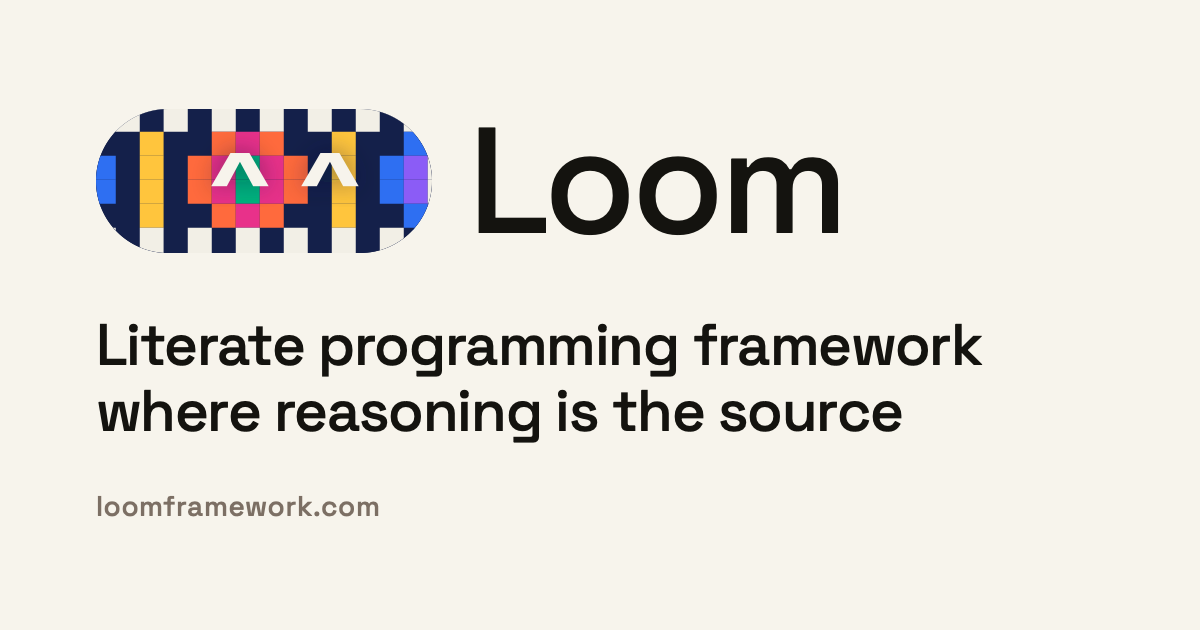
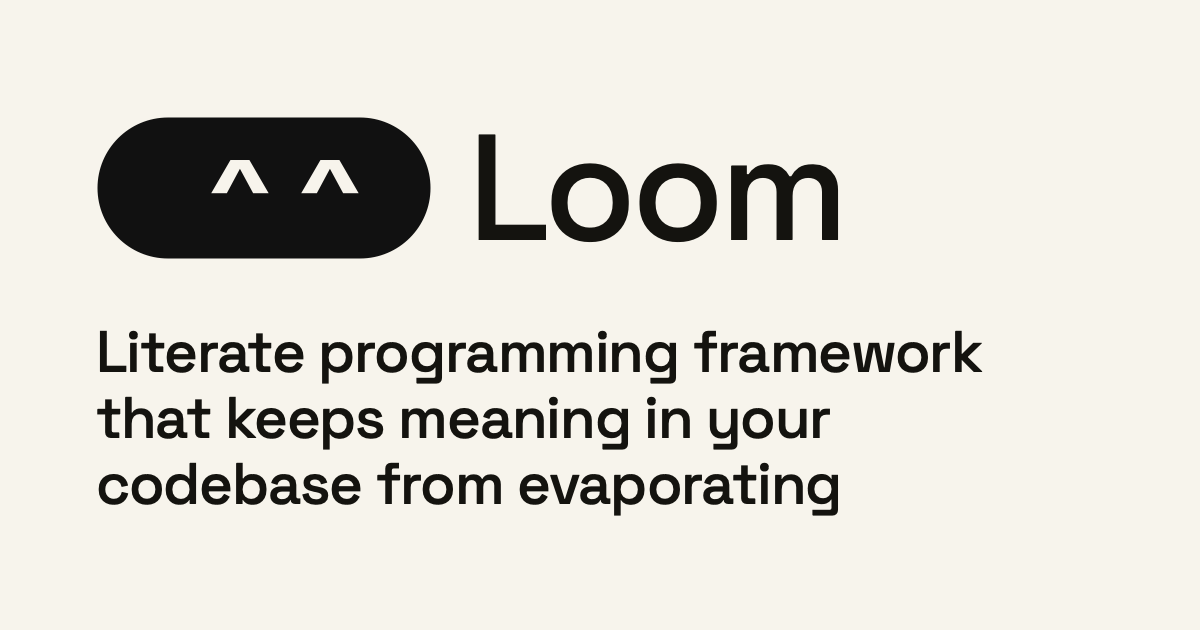
Say what Loom keeps: meaning in your codebase
The hero now says what Loom is and what it is for in one sentence,
"Literate programming framework that keeps meaning in your codebase
from evaporating", and its lead says how: "Write your program the way
you write a book, with the reasoning in prose and the code — as one
source." The tab title and the footer carry the short "literate
programming framework", the footer without a full stop.

The link preview shows the mark at rest, the black pill with its eyes
open, beside the wordmark and above the heading, without the address
the card already names. Its tags carry the new heading and lead.

The footer's last lines name the foundation, Tallinn, Estonia with its
flag, and the registration number, one to a line.

The README opens on the mark and wordmark in place of the ASCII
banner, in a light and a dark picture GitHub picks by theme, above the
new heading and lead.

diff --git a/site/index.html b/site/index.html
@@ -6,16 +6,16 @@
     <title>loom — programs written to be read</title>
     <link rel="icon" type="image/svg+xml" href="/languages/loom.svg" />
     <link rel="apple-touch-icon" href="/apple-touch-icon.png" />
-    <meta name="description" content="Write your program the way you write a book. Set down the reasoning in prose and the code beside it, as your thoughts flow." />
+    <meta name="description" content="Literate programming framework that keeps meaning in your codebase from evaporating. Write your program the way you write a book, with the reasoning in prose and the code — as one source." />
     <meta property="og:type" content="website" />
     <meta property="og:site_name" content="Loom" />
-    <meta property="og:title" content="Loom — literate programming where reasoning is the source" />
-    <meta property="og:description" content="Write your program the way you write a book. Set down the reasoning in prose and the code beside it, as your thoughts flow." />
+    <meta property="og:title" content="Loom — literate programming framework" />
+    <meta property="og:description" content="Literate programming framework that keeps meaning in your codebase from evaporating. Write your program the way you write a book, with the reasoning in prose and the code — as one source." />
     <meta property="og:url" content="https://loomframework.com/" />
     <meta property="og:image" content="https://loomframework.com/og.png" />
     <meta property="og:image:width" content="1200" />
     <meta property="og:image:height" content="630" />
-    <meta property="og:image:alt" content="The Loom mark and wordmark above the slogan: Literate programming framework where reasoning is the source." />
+    <meta property="og:image:alt" content="The Loom mark and wordmark above the line: Literate programming framework that keeps meaning in your codebase from evaporating." />
     <meta name="twitter:card" content="summary_large_image" />
     <link rel="preconnect" href="https://fonts.googleapis.com" />
     <link rel="preconnect" href="https://fonts.gstatic.com" crossorigin />

diff --git a/site/src/chrome.ts b/site/src/chrome.ts
@@ -577,7 +577,7 @@ export const footer = (h: HtmlBuilder<Message>): Html =>
                   ),
                   h.div(
                     [h.Class('footer-blurb')],
-                    ['Literate programming framework where reasoning is the source.'],
+                    ['Literate programming framework'],
                   ),
                 ],
               ),
@@ -599,7 +599,14 @@ export const footer = (h: HtmlBuilder<Message>): Html =>
               ),
             ],
           ),
-          h.div([h.Class('footer-bottom')], [h.span([], ['© Quadrivium Academy Sihtasutus 2026'])]),
+          h.div(
+            [h.Class('footer-bottom')],
+            [
+              h.span([], ['© Quadrivium Academy Sihtasutus 2026']),
+              h.span([], ['Tallinn, Estonia 🇪🇪']),
+              h.span([], ['Registration number: 90015241']),
+            ],
+          ),
         ],
       ),
     ],

diff --git a/site/src/hero.ts b/site/src/hero.ts
@@ -10,11 +10,11 @@ const claim = (h: HtmlBuilder<Message>): Html =>
   h.div(
     [h.Class('hero-claim')],
     [
-      h.h1([], ['Literate programming framework where reasoning is the source']),
+      h.h1([], ['Literate programming framework that keeps meaning in your codebase from evaporating']),
       h.p(
         [h.Class('hero-lead')],
         [
-          'Write your program the way you write a book. Set down the reasoning in prose and the code beside it, as your thoughts flow.',
+          'Write your program the way you write a book, with the reasoning in prose and the code — as one source.',
         ],
       ),
     ],

diff --git a/site/test/Page.test.ts b/site/test/Page.test.ts
@@ -35,7 +35,8 @@ describe('the page', () => {
 
   it('puts the hero and its install line on the landing', () => {
     const html = render(at('home'))
-    expect(html).toContain('Literate programming framework where reasoning is the source')
+    expect(html).toContain('Literate programming framework that keeps meaning in your codebase from evaporating</h1>')
+    expect(html).toContain('and the code — as one source')
     expect(html).toContain('bun add -g @athrio/loom')
     expect(html).toContain('class="hero-word">Loom<')
   })

diff --git a/site/src/view.ts b/site/src/view.ts
@@ -51,7 +51,7 @@ const pageFor = (model: Model, h: HtmlBuilder<Message>): Html =>
 
 const titleOf = (route: Route): string =>
   Match.value(route).pipe(
-    Match.when('home', () => 'Loom — literate programming where reasoning is the source'),
+    Match.when('home', () => 'Loom — literate programming framework'),
     Match.when('docs', () => 'Docs — Loom'),
     Match.when('why-loom', () => 'Why Loom'),
     Match.when('community', () => 'Community — Loom'),

diff --git a/site/src/landing.css b/site/src/landing.css
@@ -2041,10 +2041,10 @@ h2, .subhead {
 
 .footer-bottom {
   display: flex;
-  flex-wrap: wrap;
-  align-items: center;
+  flex-direction: column;
+  align-items: flex-start;
   width: fit-content;
-  gap: var(--stack);
+  gap: 6px;
   font-size: var(--t-code);
   letter-spacing: 0.14em;
   color: var(--footer-muted);

diff --git a/README.md b/README.md
@@ -1,15 +1,13 @@
 <div align="center">
 
-<pre>
-██╗      ██████╗  ██████╗ ███╗   ███╗
-██║     ██╔═══██╗██╔═══██╗████╗ ████║
-██║     ██║   ██║██║   ██║██╔████╔██║
-██║     ██║   ██║██║   ██║██║╚██╔╝██║
-███████╗╚██████╔╝╚██████╔╝██║ ╚═╝ ██║
-╚══════╝ ╚═════╝  ╚═════╝ ╚═╝     ╚═╝
-</pre>
+<picture>
+  <source media="(prefers-color-scheme: dark)" srcset=".github/assets/loom-dark.png" />
+  <img src=".github/assets/loom.png" alt="Loom" width="320" />
+</picture>
 
-**Literate programming framework where reasoning is the source.**
+**Literate programming framework that keeps meaning in your codebase from evaporating.**
+
+Write your program the way you write a book, with the reasoning in prose and the code — as one source.
 
 [![npm](https://img.shields.io/npm/v/@athrio/loom.svg?color=14b8a6&label=%40athrio%2Floom)](https://www.npmjs.com/package/@athrio/loom)
 ![license](https://img.shields.io/badge/license-MIT-blue.svg)
